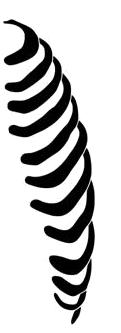
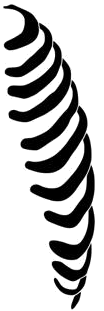
Ajout png
Séparation des vertèbres, il reste la main, les pieds et le radius modifié à placé ainsi que la partie 3 de la colonne (L1 à L5)

diff --git a/resources/views/patients/squelette.blade.php b/resources/views/patients/squelette.blade.php
@@ -72,42 +72,79 @@
     function skeletonInteractive() {
         return {
             selectedOs: null,
-            osList: [
-                { name: 'Crâne', src: 'images/crane.png', style: 'top:0px; left:260px; width:90px;' },
-                { name: 'Machoire', src: 'images/machoire.png', style: 'top:77px; left:276px; width:65px;' },
-                { name: 'Clavicule D', src: 'images/clavicule_d.png', style: 'top:130px; left:350px; width:110px;' },
-                { name: 'Clavicule G', src: 'images/clavicule_g.png', style: 'top:130px; left:140px; width:110px;' },
-                { name: 'Épaule D', src: 'images/epaule_d.png', style: 'top:155px; left:370px; width:80px;' },
-                { name: 'Épaule G', src: 'images/epaule_g.png', style: 'top:147px; left:150px; width:80px;' },
-                { name: 'Humérus D', src: 'images/humerus_d.png', style: 'top:170px; left:380px; width:120px;' },
-                { name: 'Humérus G', src: 'images/humerus_g.png', style: 'top:180px; left:110px; width:110px;' },
-                { name: 'Radius D', src: 'images/radius_d.png', style: 'top:345px; left:400px; width:75px;' },
-                { name: 'Radius G', src: 'images/radius_g.png', style: 'top:350px; left:125px; width:80px;' },
-                { name: 'Main D', src: 'images/main_d.png', style: 'top:455px; left:400px; width:100px;' },
-                { name: 'Main G', src: 'images/main_g.png', style: 'top:475px; left:125px; width:65px;' },
-                { name: 'Sternum', src: 'images/sternum.png', style: 'top:170px; left:275px; width:65px;' },
-                { name: 'Côtes D', src: 'images/cotes_d.png', style: 'top:170px; left:325px; width:70px;' },
-                { name: 'Côtes G', src: 'images/cotes_g.png', style: 'top:177px; left:216px; width:70px;' },
-                { name: 'Colonne 1', src: 'images/colonne_1.png', style: 'top:290px; left:266px; width:80px;' },
-                { name: 'Colonne 2', src: 'images/colonne_2.png', style: 'top:350px; left:229px; width:160px;' },
-                { name: 'Colonne 3', src: 'images/colonne_3.png', style: 'top:480px; left:273px; width:75px;' },
-                { name: 'Sacrum H', src: 'images/sacrum_h.png', style: 'top:540px; left:272px; width:70px;' },
-                { name: 'Sacrum B', src: 'images/sacrum_b.png', style: 'top:609px; left:297px; width:20px;' },
-                { name: 'Os oxal H D', src: 'images/os_oxal_h_d.png', style: 'top:545px; left:328px; width:52px;' },
-                { name: 'Os oxal H G', src: 'images/os_oxal_h_g.png', style: 'top:545px; left:232px; width:54px;' },
-                { name: 'Os oxal B 1 D', src: 'images/os_oxal_b_1_d.png', style: 'top:594px; left:323px; width:40px;' },
-                { name: 'Os oxal B 1 G', src: 'images/os_oxal_b_1_g.png', style: 'top:593px; left:248px; width:40px;' },
-                { name: 'Os oxal B 2 D', src: 'images/os_oxal_b_2_d.png', style: 'top:622px; left:306px; width:32px;' },
-                { name: 'Os oxal B 2 G', src: 'images/os_oxal_b_2_g.png', style: 'top:622px; left:275px; width:30px;' },
-                { name: 'Fémur D', src: 'images/femur_d.png', style: 'top:650px; left:309px; width:130px;' },
-                { name: 'Fémur G', src: 'images/femur_g.png', style: 'top:635px; left:184px; width:145px;' },
-                { name: 'Genou D', src: 'images/genou_d.png', style: 'top:815px; left:358px; width:20px;' },
-                { name: 'Genou G', src: 'images/genou_g.png', style: 'top:813px; left:222px; width:22px;' },
-                { name: 'Tibia D', src: 'images/tibia_d.png', style: 'top:835px; left:297px; width:100px;' },
-                { name: 'Tibia G', src: 'images/tibia_g.png', style: 'top:828px; left:209px; width:100px;' },
-                { name: 'Pied D', src: 'images/pied_d.png', style: 'top:990px; left:319px; width:100px;' },
-                { name: 'Pied G', src: 'images/pied_g.png', style: 'top:980px; left:169px; width:120px;' }
-            ],
+         osList: [
+            { name: 'Crâne', src: 'images/crane.png', style: 'top:0px; left:260px; width:90px; z-index:1;' },
+            { name: 'Machoire', src: 'images/machoire.png', style: 'top:40px; left:262px; width:83px; z-index=-1;' },
+
+            // Clavicules et épaules
+            { name: 'Clavicule D', src: 'images/clavicule_d.png', style: 'top:130px; left:350px; width:110px;' },
+            { name: 'Clavicule G', src: 'images/clavicule_g.png', style: 'top:130px; left:140px; width:110px;' },
+            { name: 'Épaule D', src: 'images/epaule_d.png', style: 'top:155px; left:370px; width:80px;' },
+            { name: 'Épaule G', src: 'images/epaule_g.png', style: 'top:147px; left:150px; width:80px;' },
+
+            // Bras
+            { name: 'Humérus D', src: 'images/humerus_d.png', style: 'top:170px; left:380px; width:120px;' },
+            { name: 'Humérus G', src: 'images/humerus_g.png', style: 'top:180px; left:110px; width:110px;' },
+            { name: 'Radius D', src: 'images/radius_d.png', style: 'top:345px; left:400px; width:75px;' },
+            { name: 'Radius G', src: 'images/radius_g.png', style: 'top:350px; left:125px; width:80px;' },
+            { name: 'Main D', src: 'images/main_d.png', style: 'top:455px; left:400px; width:100px;' },
+            { name: 'Main G', src: 'images/main_g.png', style: 'top:475px; left:125px; width:65px;' },
+
+            // Sternum & côtes
+            { name: 'Sternum', src: 'images/sternum.png', style: 'top:170px; left:283px; width:45px;' },
+            { name: 'Côtes D', src: 'images/cotes_d.png', style: 'top:170px; left:325px; width:70px;' },
+            { name: 'Côtes G', src: 'images/cotes_g.png', style: 'top:177px; left:216px; width:70px;' },
+
+            // Colonne cervicale (C1–C7)
+            { name: 'C1', src: 'images/c1.png', style: 'top:246px; left:290px; width:30px;' },
+            { name: 'C2', src: 'images/c2.png', style: 'top:255px; left:290px; width:30px;' },
+            { name: 'C3', src: 'images/c3.png', style: 'top:265px; left:290px; width:30px;' },
+            { name: 'C4', src: 'images/c4.png', style: 'top:275px; left:290px; width:30px;' },
+            { name: 'C5', src: 'images/c5.png', style: 'top:285px; left:290px; width:30px;' },
+            { name: 'C6', src: 'images/c6.png', style: 'top:292px; left:290px; width:30px;' },
+            { name: 'C7', src: 'images/c7.png', style: 'top:300px; left:290px; width:30px;' },
+
+
+            { name: 'T1', src: 'images/t1.png', style: 'top:315px; left:288px; width:35px;' },
+            { name: 'T2', src: 'images/t2.png', style: 'top:327px; left:288px; width:35px;' },
+            { name: 'T3', src: 'images/t3.png', style: 'top:337px; left:288px; width:35px;' },
+            { name: 'T4', src: 'images/t4.png', style: 'top:348px; left:288px; width:35px;' },
+            { name: 'T5', src: 'images/t5.png', style: 'top:358px; left:288px; width:35px;' },
+            { name: 'T6', src: 'images/t6.png', style: 'top:372px; left:288px; width:35px;' },
+            { name: 'T7', src: 'images/t7.png', style: 'top:382px; left:288px; width:35px;' },
+            { name: 'T8', src: 'images/t8.png', style: 'top:396px; left:288px; width:35px;' },
+            { name: 'T9', src: 'images/t9.png', style: 'top:408px; left:288px; width:35px;' },
+            { name: 'T10', src: 'images/t10.png', style: 'top:422px; left:288px; width:35px;' },
+            { name: 'T11', src: 'images/t11.png', style: 'top:434px; left:288px; width:35px;' },
+            { name: 'T12', src: 'images/t12.png', style: 'top:448px; left:288px; width:35px;' },
+/*
+            // Colonne lombaire (L1–L5)
+            { name: 'L1', src: 'images/l1.png', style: 'top:420px; left:280px; width:40px;' },
+            { name: 'L2', src: 'images/l2.png', style: 'top:430px; left:280px; width:40px;' },
+            { name: 'L3', src: 'images/l3.png', style: 'top:440px; left:280px; width:40px;' },
+            { name: 'L4', src: 'images/l4.png', style: 'top:450px; left:280px; width:40px;' },
+            { name: 'L5', src: 'images/l5.png', style: 'top:460px; left:280px; width:40px;' },
+           */// Sacrum & bassin
+            { name: 'Sacrum H', src: 'images/sacrum_h.png', style: 'top:540px; left:272px; width:70px;' },
+            { name: 'Sacrum B', src: 'images/sacrum_b.png', style: 'top:609px; left:297px; width:20px;' },
+            { name: 'Os oxal H D', src: 'images/os_oxal_h_d.png', style: 'top:545px; left:328px; width:52px;' },
+            { name: 'Os oxal H G', src: 'images/os_oxal_h_g.png', style: 'top:545px; left:232px; width:54px;' },
+            { name: 'Os oxal B 1 D', src: 'images/os_oxal_b_1_d.png', style: 'top:594px; left:323px; width:40px;' },
+            { name: 'Os oxal B 1 G', src: 'images/os_oxal_b_1_g.png', style: 'top:593px; left:248px; width:40px;' },
+            { name: 'Os oxal B 2 D', src: 'images/os_oxal_b_2_d.png', style: 'top:622px; left:306px; width:32px;' },
+            { name: 'Os oxal B 2 G', src: 'images/os_oxal_b_2_g.png', style: 'top:622px; left:275px; width:30px;' },
+
+            // Jambes
+            { name: 'Fémur D', src: 'images/femur_d.png', style: 'top:650px; left:309px; width:130px;' },
+            { name: 'Fémur G', src: 'images/femur_g.png', style: 'top:635px; left:184px; width:145px;' },
+            { name: 'Genou D', src: 'images/genou_d.png', style: 'top:815px; left:358px; width:20px;' },
+            { name: 'Genou G', src: 'images/genou_g.png', style: 'top:813px; left:222px; width:22px;' },
+            { name: 'Tibia D', src: 'images/tibia_d.png', style: 'top:835px; left:297px; width:100px;' },
+            { name: 'Tibia G', src: 'images/tibia_g.png', style: 'top:828px; left:209px; width:100px;' },
+            { name: 'Pied D', src: 'images/pied_d.png', style: 'top:990px; left:319px; width:100px;' },
+            { name: 'Pied G', src: 'images/pied_g.png', style: 'top:980px; left:169px; width:120px;' }
+        ],
+
 
             // Sélection/désélection
             selectOs(os) {
